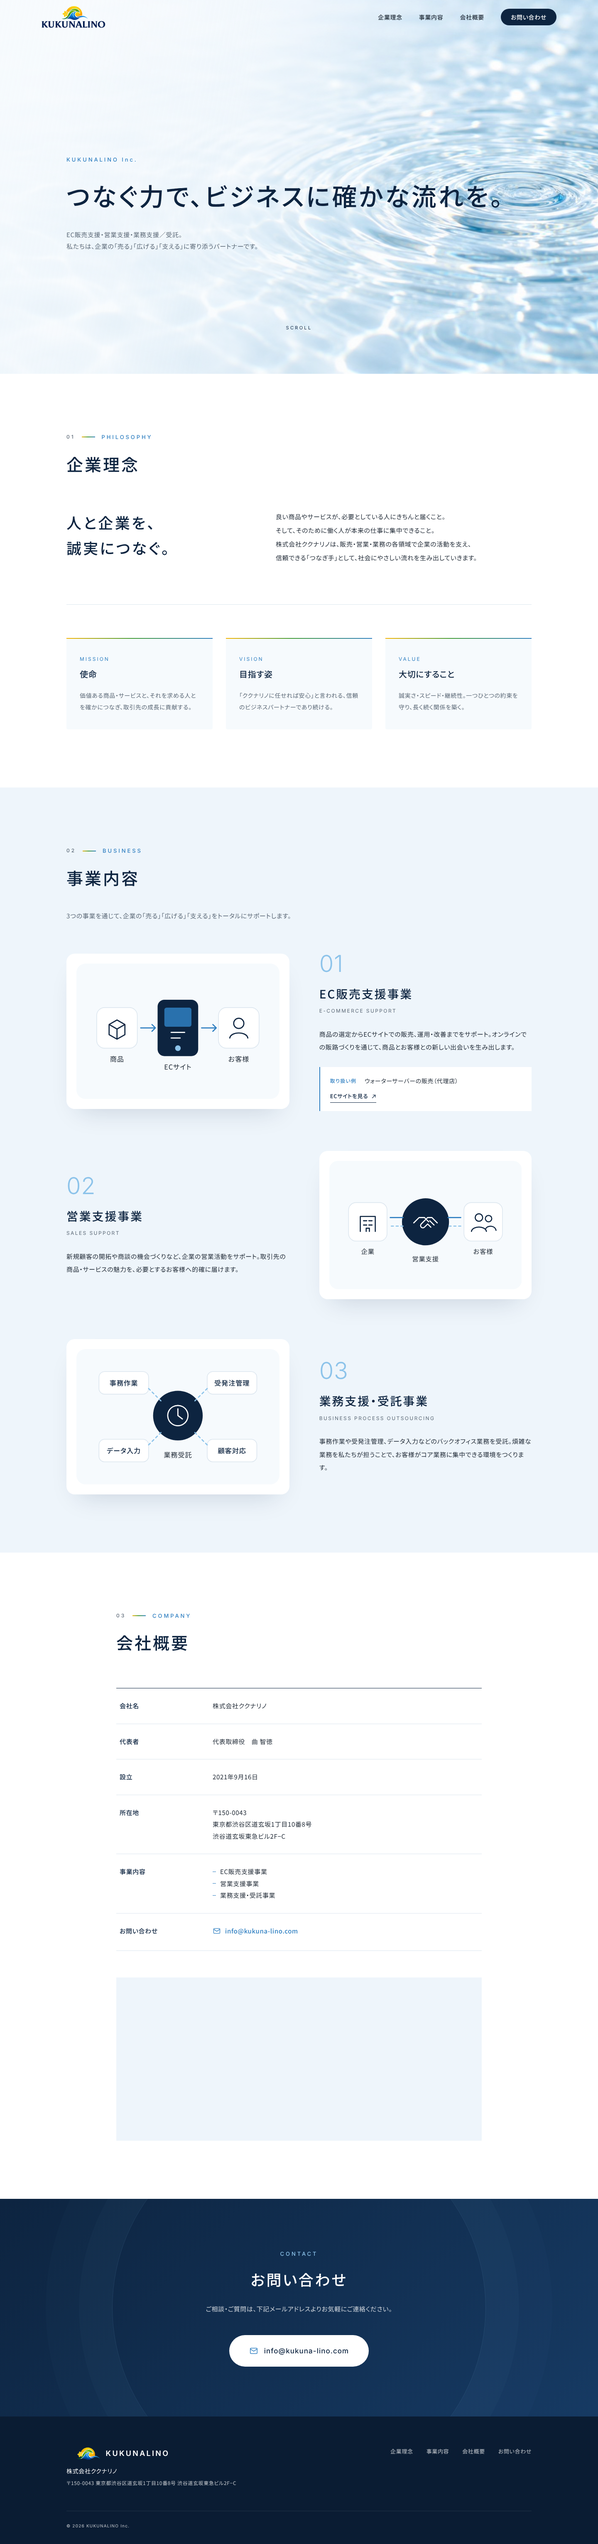
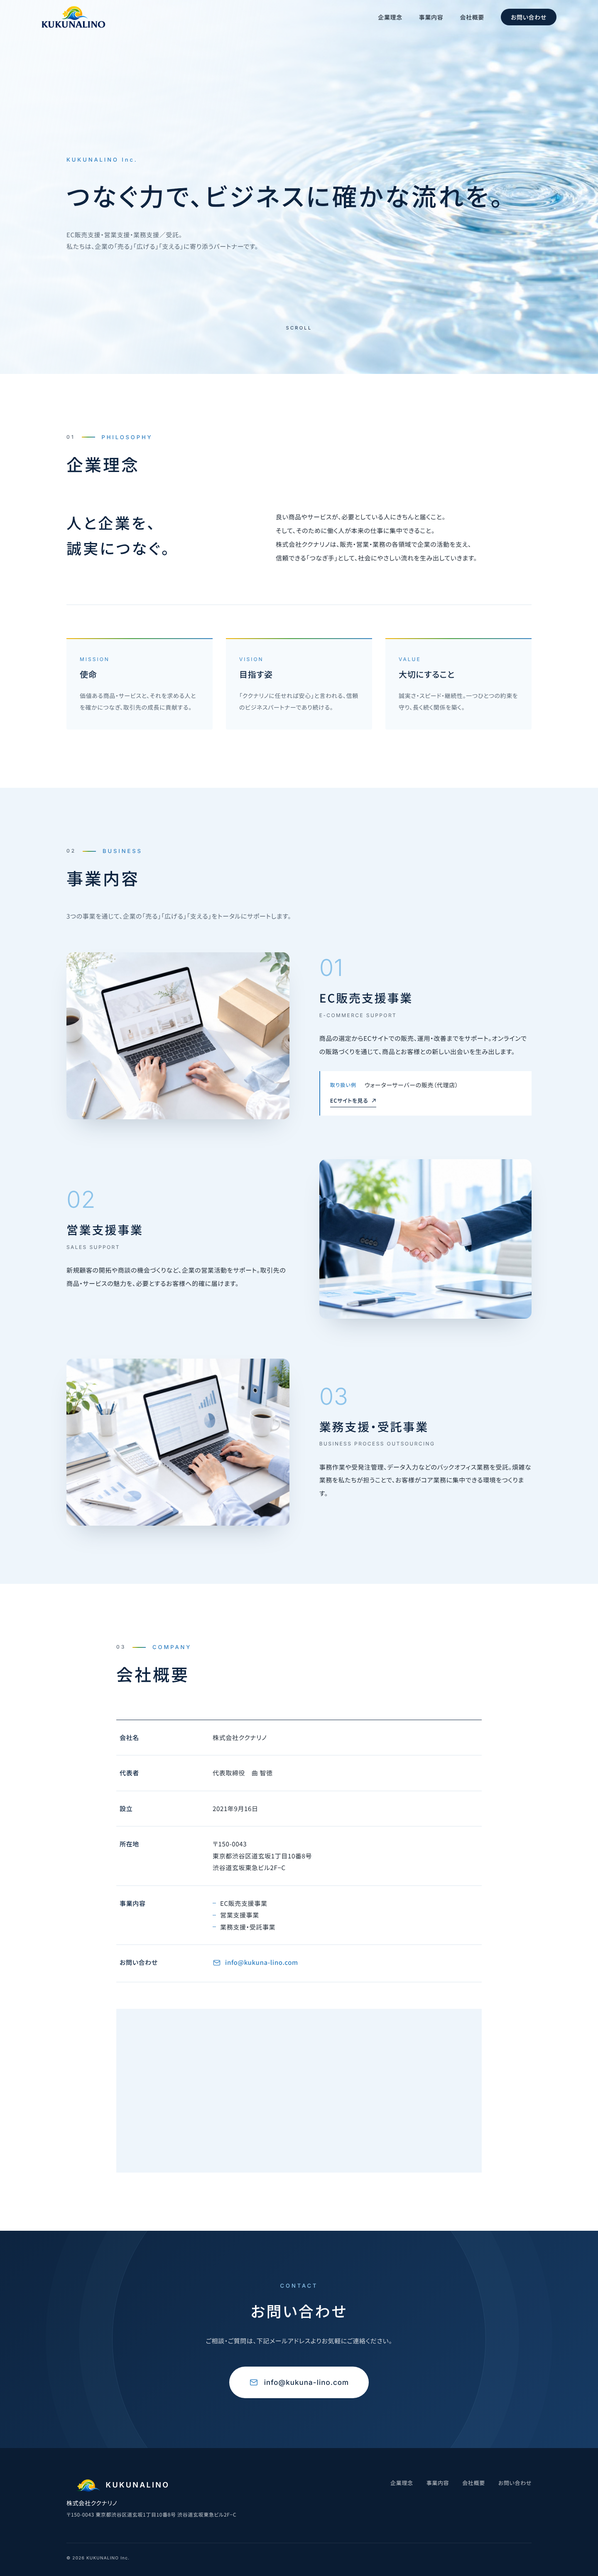
Replace business illustrations with supplied photos
Claude-Session: https://claude.ai/code/session_017MAivQLtSp5bjELNTzuYEg

diff --git a/index.html b/index.html
@@ -113,33 +113,7 @@
           <!-- EC -->
           <article class="biz fade">
             <div class="biz__figure">
-              <svg viewBox="0 0 360 240" role="img" aria-label="EC販売支援のイメージ図：商品からECサイトを通じてお客様へ届く流れ">
-                <rect x="0" y="0" width="360" height="240" rx="16" class="fig-bg"/>
-                <!-- product -->
-                <g transform="translate(36,78)">
-                  <rect width="72" height="72" rx="14" class="fig-card"/>
-                  <path d="M22 30 L36 22 L50 30 L50 48 L36 56 L22 48 Z M22 30 L36 38 L50 30 M36 38 L36 56" class="fig-line"/>
-                  <text x="36" y="96" class="fig-txt">商品</text>
-                </g>
-                <!-- shop -->
-                <g transform="translate(144,64)">
-                  <rect width="72" height="100" rx="12" class="fig-card fig-card--accent"/>
-                  <rect x="12" y="14" width="48" height="34" rx="4" class="fig-screen"/>
-                  <path d="M24 58 h24 M24 68 h16" class="fig-line fig-line--w"/>
-                  <circle cx="36" cy="86" r="5" class="fig-dot-w"/>
-                  <text x="36" y="124" class="fig-txt">ECサイト</text>
-                </g>
-                <!-- customer -->
-                <g transform="translate(252,78)">
-                  <rect width="72" height="72" rx="14" class="fig-card"/>
-                  <circle cx="36" cy="28" r="9" class="fig-line"/>
-                  <path d="M20 54 c2-12 30-12 32 0" class="fig-line"/>
-                  <text x="36" y="96" class="fig-txt">お客様</text>
-                </g>
-                <path d="M114 114 h24" class="fig-arrow"/>
-                <path d="M222 114 h24" class="fig-arrow"/>
-                <path d="M134 108 l6 6 -6 6 M242 108 l6 6 -6 6" class="fig-arrow"/>
-              </svg>
+              <img src="assets/images/biz-ec.jpg" alt="EC販売支援事業のイメージ：ノートパソコンでECサイトを運営する様子" width="1200" height="900" loading="lazy">
             </div>
             <div class="biz__body">
               <p class="biz__num">01</p>
@@ -162,28 +136,7 @@
           <!-- Sales -->
           <article class="biz biz--reverse fade">
             <div class="biz__figure">
-              <svg viewBox="0 0 360 240" role="img" aria-label="営業支援のイメージ図：企業とお客様の間をククナリノがつなぐ">
-                <rect x="0" y="0" width="360" height="240" rx="16" class="fig-bg"/>
-                <g transform="translate(36,78)">
-                  <rect width="72" height="72" rx="14" class="fig-card"/>
-                  <path d="M22 54 V26 h28 v28 M28 34 h6 M38 34 h6 M28 42 h6 M38 42 h6 M33 54 v-6 h6 v6" class="fig-line"/>
-                  <text x="36" y="96" class="fig-txt">企業</text>
-                </g>
-                <g transform="translate(144,70)">
-                  <circle cx="36" cy="44" r="44" class="fig-card fig-card--accent"/>
-                  <path d="M14 46 l10-10 h10 l8 8 M58 46 l-10-10 h-8 l-12 12 a4 4 0 0 0 6 6 l6-6 m0 0 l6 6 m-2-12 l8 8" class="fig-line fig-line--w"/>
-                  <text x="36" y="118" class="fig-txt">営業支援</text>
-                </g>
-                <g transform="translate(252,78)">
-                  <rect width="72" height="72" rx="14" class="fig-card"/>
-                  <circle cx="28" cy="28" r="7" class="fig-line"/>
-                  <circle cx="46" cy="30" r="6" class="fig-line"/>
-                  <path d="M14 54 c2-11 26-11 28 0 M40 50 c3-8 18-8 20 2" class="fig-line"/>
-                  <text x="36" y="96" class="fig-txt">お客様</text>
-                </g>
-                <path d="M114 106 h24 M222 106 h24" class="fig-arrow"/>
-                <path d="M138 122 h-24 M246 122 h-24" class="fig-arrow fig-arrow--sub"/>
-              </svg>
+              <img src="assets/images/biz-sales.jpg" alt="営業支援事業のイメージ：商談成立の握手" width="1200" height="900" loading="lazy">
             </div>
             <div class="biz__body">
               <p class="biz__num">02</p>
@@ -198,31 +151,7 @@
           <!-- BPO -->
           <article class="biz fade">
             <div class="biz__figure">
-              <svg viewBox="0 0 360 240" role="img" aria-label="業務支援・受託のイメージ図：事務・受発注・データ入力などのバックオフィス業務を受託">
-                <rect x="0" y="0" width="360" height="240" rx="16" class="fig-bg"/>
-                <g transform="translate(144,74)">
-                  <circle cx="36" cy="44" r="44" class="fig-card fig-card--accent"/>
-                  <path d="M36 26 a18 18 0 1 1 -0.1 0 M36 32 v12 l8 6" class="fig-line fig-line--w"/>
-                  <text x="36" y="118" class="fig-txt">業務受託</text>
-                </g>
-                <g transform="translate(40,40)">
-                  <rect width="88" height="40" rx="10" class="fig-card"/>
-                  <text x="44" y="25" class="fig-txt fig-txt--in">事務作業</text>
-                </g>
-                <g transform="translate(232,40)">
-                  <rect width="88" height="40" rx="10" class="fig-card"/>
-                  <text x="44" y="25" class="fig-txt fig-txt--in">受発注管理</text>
-                </g>
-                <g transform="translate(40,160)">
-                  <rect width="88" height="40" rx="10" class="fig-card"/>
-                  <text x="44" y="25" class="fig-txt fig-txt--in">データ入力</text>
-                </g>
-                <g transform="translate(232,160)">
-                  <rect width="88" height="40" rx="10" class="fig-card"/>
-                  <text x="44" y="25" class="fig-txt fig-txt--in">顧客対応</text>
-                </g>
-                <path d="M128 70 L150 92 M232 70 L210 92 M128 170 L150 148 M232 170 L210 148" class="fig-arrow fig-arrow--sub"/>
-              </svg>
+              <img src="assets/images/biz-bpo.jpg" alt="業務支援・受託事業のイメージ：パソコンで事務作業・データ管理を行う様子" width="1200" height="900" loading="lazy">
             </div>
             <div class="biz__body">
               <p class="biz__num">03</p>

diff --git a/assets/css/style.css b/assets/css/style.css
@@ -216,11 +216,16 @@ h1, h2, h3, p { margin: 0; }
 }
 .biz--reverse .biz__figure { order: 2; }
 .biz__figure {
-  background: var(--white);
-  border-radius: 20px;
-  padding: 24px;
-  box-shadow: 0 30px 60px -30px rgba(13, 36, 64, .18);
+  border-radius: 16px;
+  overflow: hidden;
+  aspect-ratio: 4 / 3;
+  box-shadow: 0 30px 60px -30px rgba(13, 36, 64, .25);
 }
+.biz__figure img {
+  width: 100%; height: 100%; object-fit: cover;
+  transition: transform 1.2s var(--ease);
+}
+.biz:hover .biz__figure img { transform: scale(1.04); }
 .biz__num {
   font-family: var(--font-en); font-size: 56px; font-weight: 300;
   line-height: 1; color: var(--blue-light);
@@ -244,19 +249,6 @@ h1, h2, h3, p { margin: 0; }
 }
 .biz__link svg { width: 12px; height: 12px; fill: none; stroke: currentColor; stroke-width: 1.6; }
 .biz__link:hover { color: var(--blue); gap: 12px; }
-
-/* SVG figure parts */
-.fig-bg { fill: var(--ice-2); }
-.fig-card { fill: var(--white); stroke: var(--line); stroke-width: 1.2; }
-.fig-card--accent { fill: var(--navy); stroke: none; }
-.fig-screen { fill: var(--blue); opacity: .85; }
-.fig-line { fill: none; stroke: var(--navy); stroke-width: 2; stroke-linecap: round; stroke-linejoin: round; }
-.fig-line--w { stroke: var(--white); }
-.fig-dot-w { fill: var(--blue-light); }
-.fig-txt { font-family: var(--font-ja); font-size: 12px; fill: var(--text); text-anchor: middle; letter-spacing: .05em; }
-.fig-txt--in { font-size: 12px; fill: var(--navy); font-weight: 500; }
-.fig-arrow { fill: none; stroke: var(--blue); stroke-width: 2; stroke-linecap: round; stroke-linejoin: round; }
-.fig-arrow--sub { stroke: var(--blue-light); stroke-dasharray: 4 5; }
 
 /* ---------- Company ---------- */
 .profile { border-top: 1px solid var(--navy); }
@@ -382,7 +374,7 @@ h1, h2, h3, p { margin: 0; }
   .hero__bg::after { background: linear-gradient(180deg, rgba(246, 250, 253, .55) 0%, rgba(246, 250, 253, .85) 45%, rgba(246, 250, 253, .55) 100%); }
   .business__intro { margin-top: -16px; margin-bottom: 48px; }
   .business__list { gap: 72px; }
-  .biz__figure { padding: 12px; border-radius: 14px; }
+  .biz__figure { border-radius: 12px; }
   .biz__num { font-size: 44px; }
 
   .profile__row { grid-template-columns: 1fr; gap: 6px; padding: 22px 4px; }
